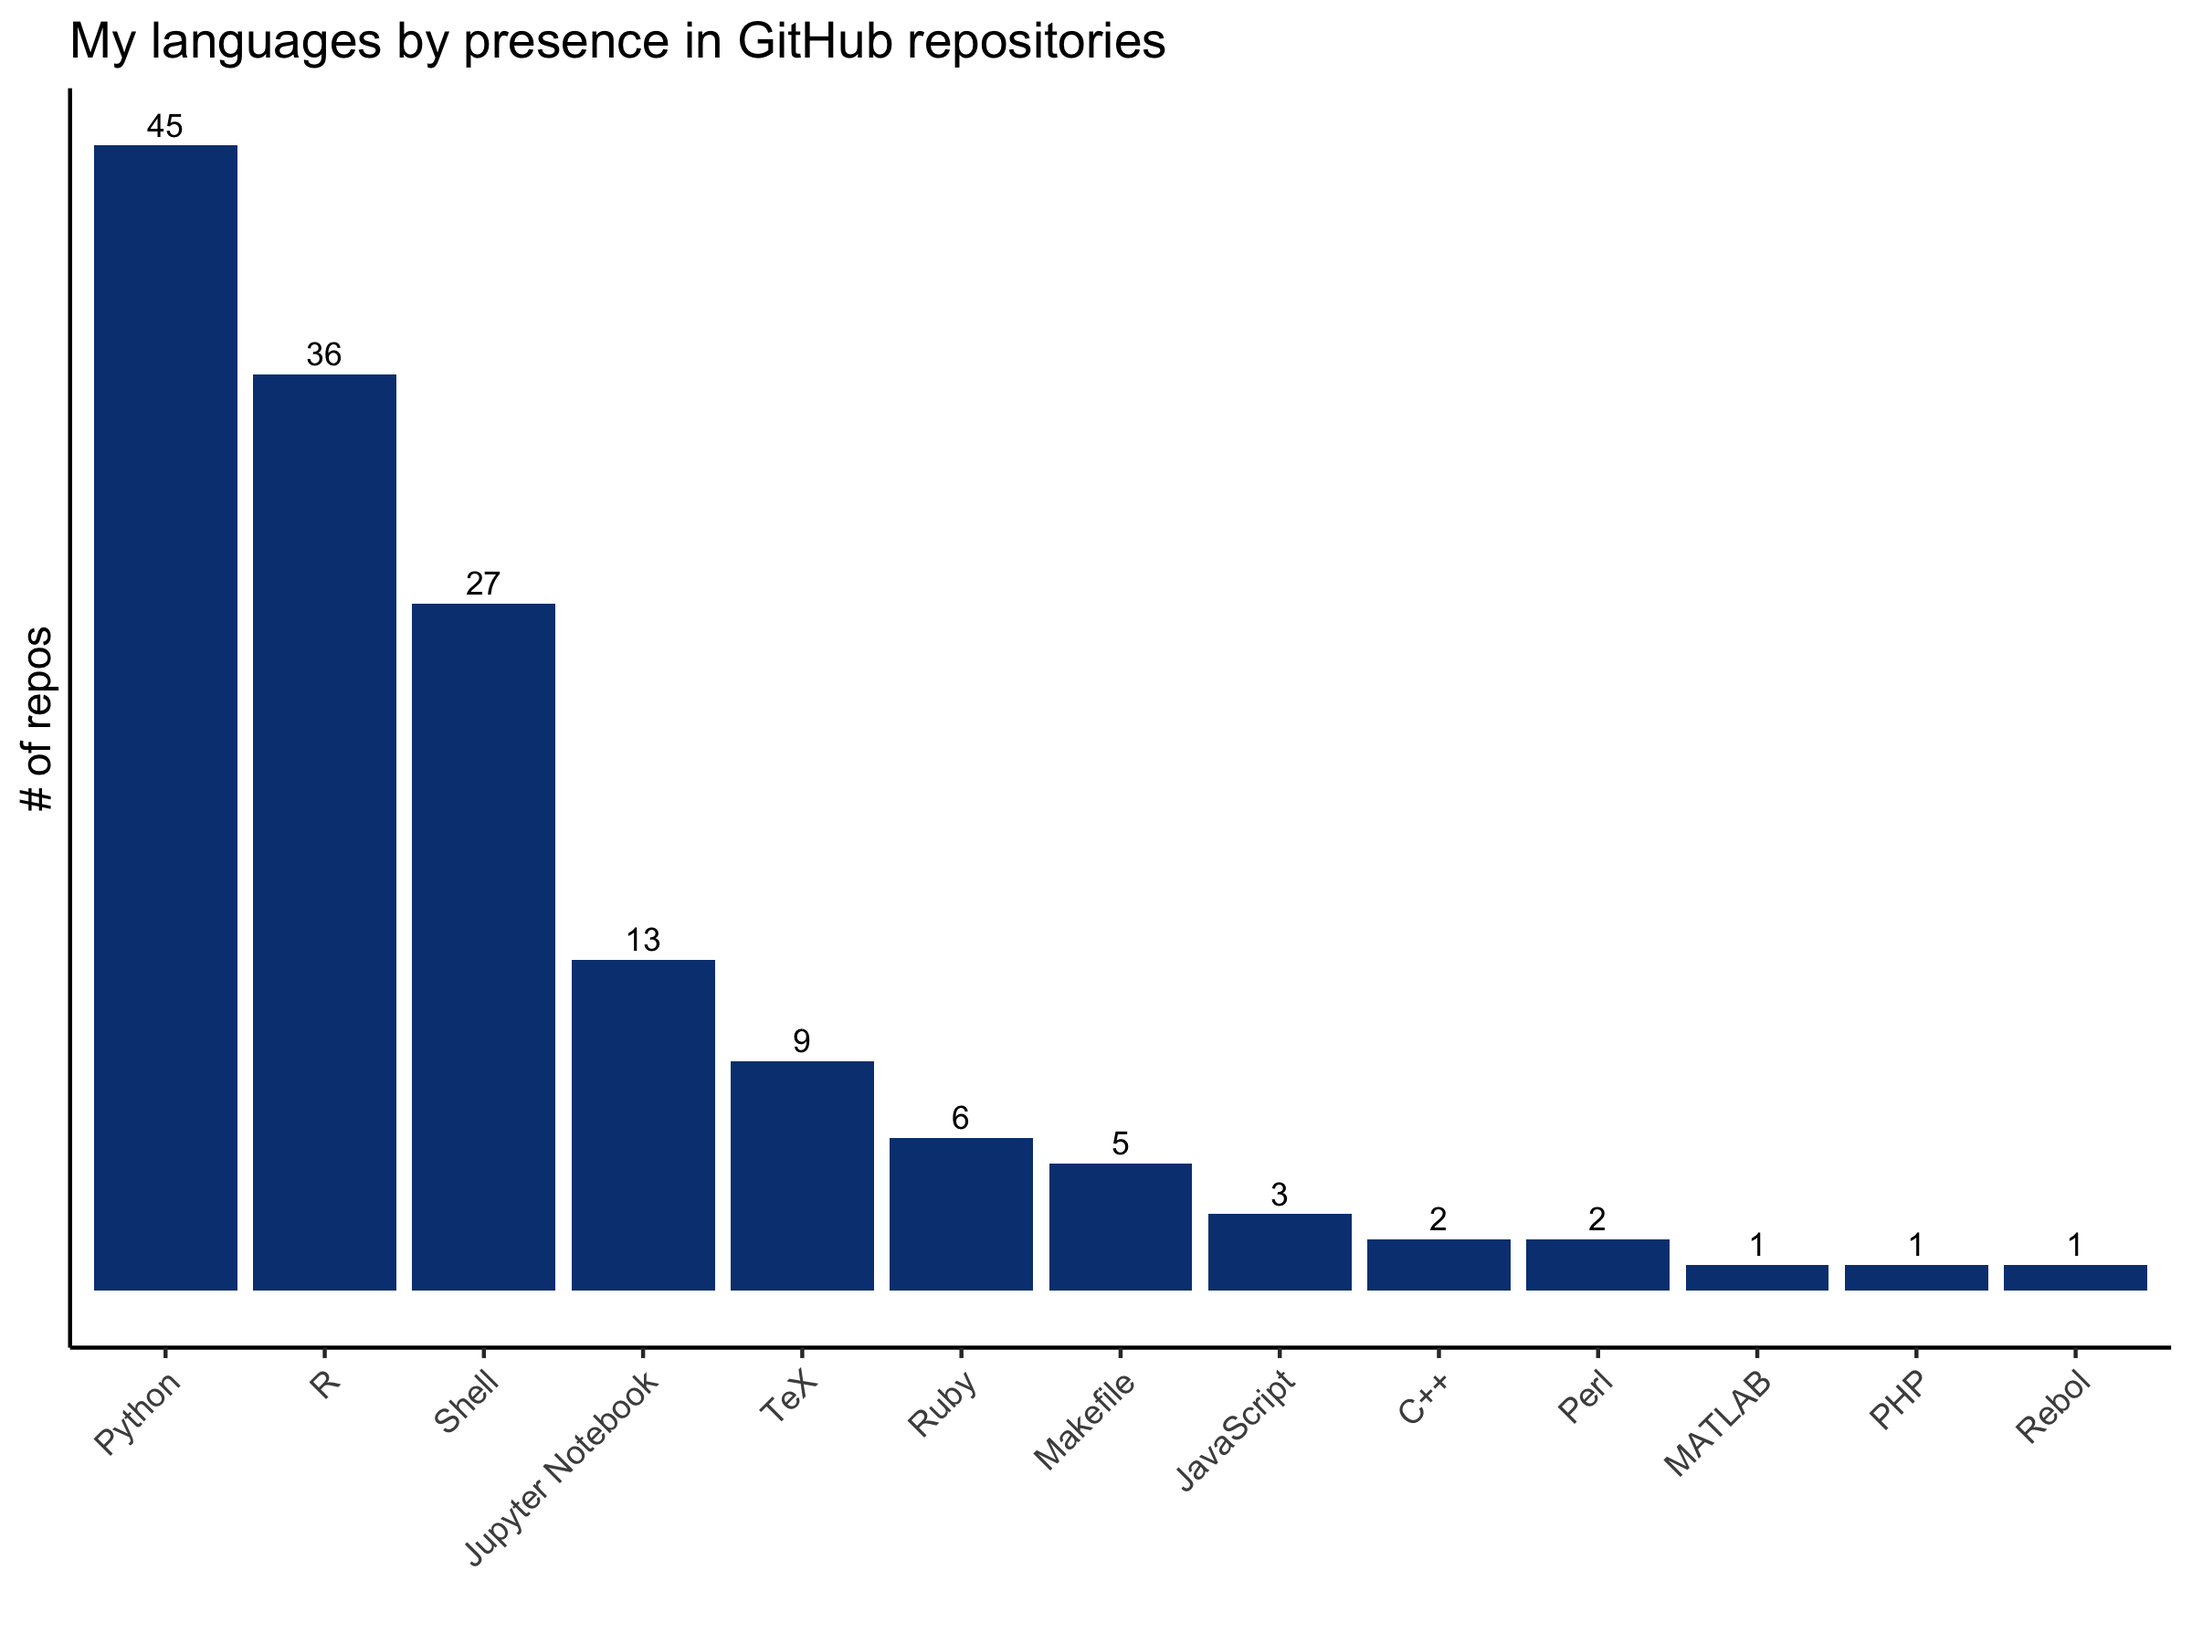
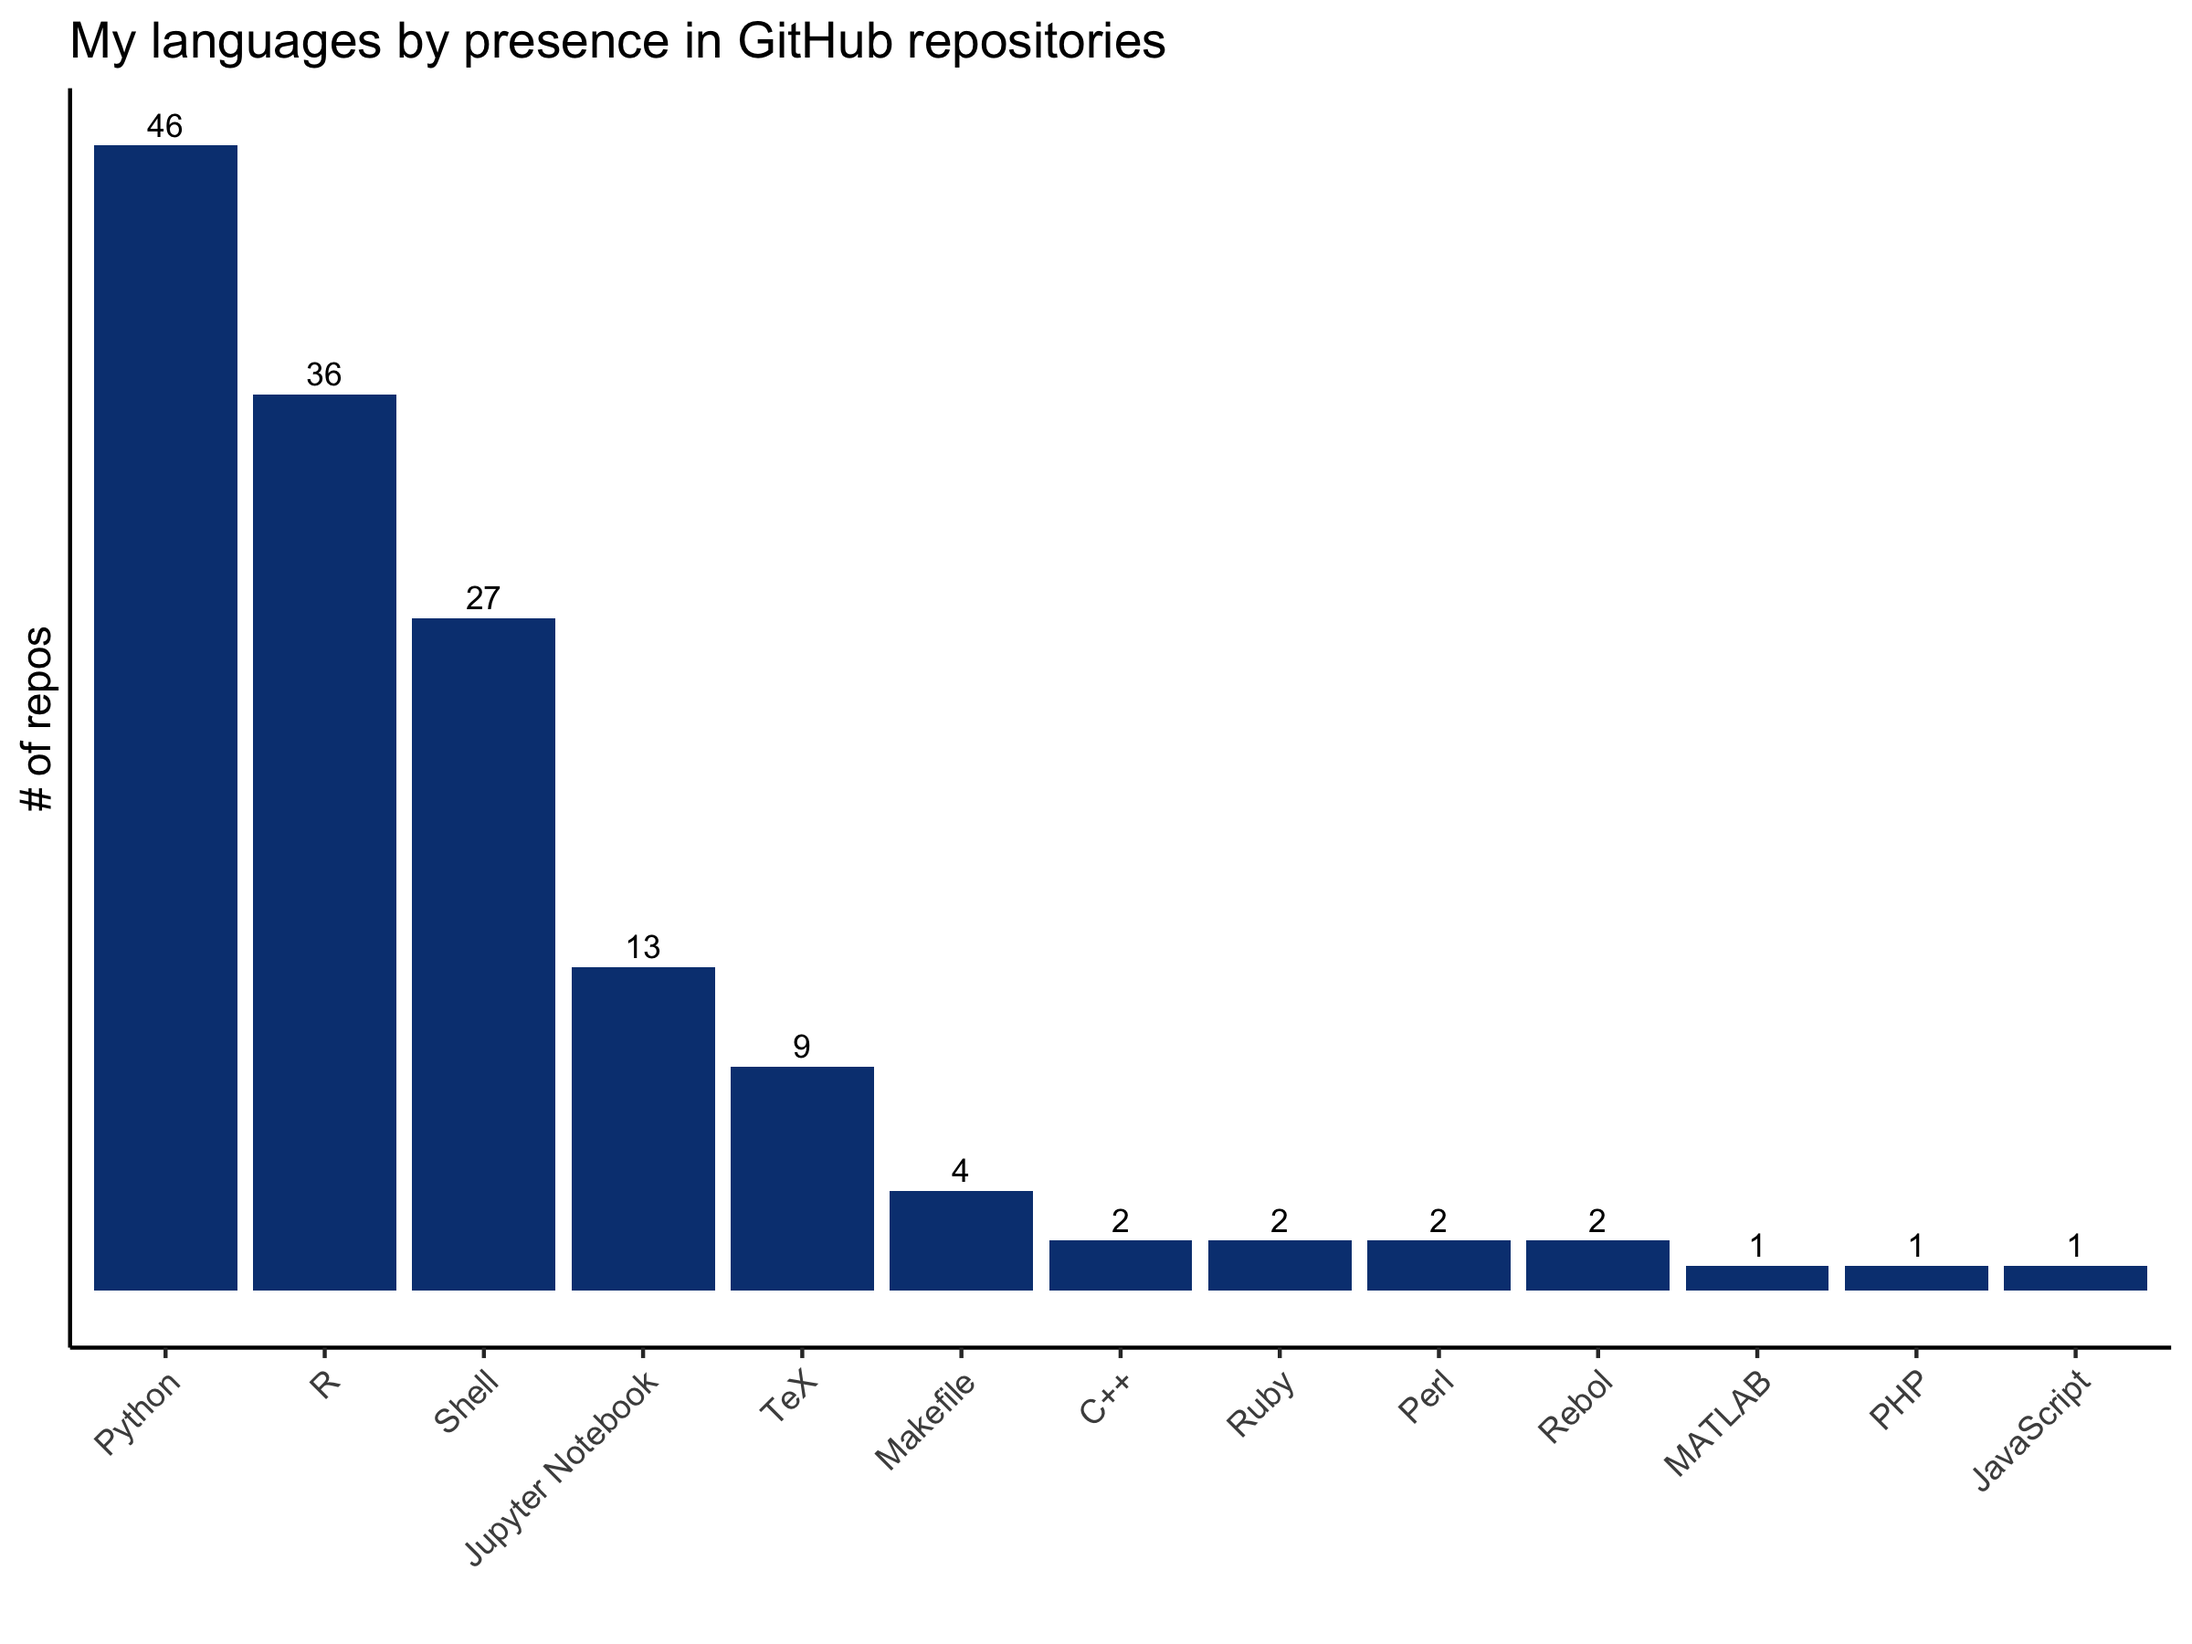
Manually ignore a few more repos

diff --git a/README.md b/README.md
@@ -11,11 +11,13 @@ A meta-repository to organize my public projects.
 ### Current
 | Repository | Description | Owner | Language(s) |
 |---|---|---|---|
-| [strava](https://github.com/kelly-sovacool/strava) | Having fun plotting my activity data from Strava! | [kelly-sovacool](https://github.com/kelly-sovacool) | R, Python, Shell |
-| [mikRopML](https://github.com/SchlossLab/mikRopML) | User-Friendly Machine Learning Package for Classification Problems | [SchlossLab](https://github.com/SchlossLab) | R |
-| [mikRopML-snakemake-workflow](https://github.com/SchlossLab/mikRopML-snakemake-workflow) | Template for running mikRopML with Snakemake | [SchlossLab](https://github.com/SchlossLab) | Python, R, Shell |
-| [handmade-plots](https://github.com/kelly-sovacool/handmade-plots) | Attempting to make plots look like they were drawn by hand | [kelly-sovacool](https://github.com/kelly-sovacool) |  |
 | [kelly-sovacool.github.io](https://github.com/kelly-sovacool/kelly-sovacool.github.io) | My personal website, forked from the academicpages template. | [kelly-sovacool](https://github.com/kelly-sovacool) | Shell |
+| [meta-repo](https://github.com/kelly-sovacool/meta-repo) | A meta-repository to organize my public projects. | [kelly-sovacool](https://github.com/kelly-sovacool) | Python, R, Shell |
+| [strava](https://github.com/kelly-sovacool/strava) | Having fun plotting my activity data from Strava! | [kelly-sovacool](https://github.com/kelly-sovacool) | R, Python, Shell |
+| [mikRopML-snakemake-workflow](https://github.com/SchlossLab/mikRopML-snakemake-workflow) | Template for running mikRopML with Snakemake | [SchlossLab](https://github.com/SchlossLab) | Python, R, Shell |
+| [repro-packs](https://github.com/um-dang/repro-packs) | Structuring projects for reproducibility and headache prevention. | [um-dang](https://github.com/um-dang) |  |
+| [mikRopML](https://github.com/SchlossLab/mikRopML) | User-Friendly Machine Learning Package for Classification Problems | [SchlossLab](https://github.com/SchlossLab) | R |
+| [handmade-plots](https://github.com/kelly-sovacool/handmade-plots) | Attempting to make plots look like they were drawn by hand | [kelly-sovacool](https://github.com/kelly-sovacool) |  |
 | [snakemake_hpc_mwe](https://github.com/kelly-sovacool/snakemake_hpc_mwe) | A minimal working example of using Snakemake on an HPC running PBS-torque or SLURM. | [kelly-sovacool](https://github.com/kelly-sovacool) | Shell, Python |
 | [Great_Lakes_SLURM](https://github.com/SchlossLab/Great_Lakes_SLURM) | Using the Great Lakes cluster and batch computing with SLURM  | [SchlossLab](https://github.com/SchlossLab) |  |
 | [mothuR](https://github.com/SchlossLab/mothuR) | R package to work with mothur output files | [SchlossLab](https://github.com/SchlossLab) | R |
@@ -24,9 +26,7 @@ A meta-repository to organize my public projects.
 | [acnh](https://github.com/kelly-sovacool/acnh) | Animal Crossing: New Horizons | [kelly-sovacool](https://github.com/kelly-sovacool) |  |
 | [schlosslab.github.io](https://github.com/SchlossLab/schlosslab.github.io) | The website for the Schloss Lab at the University of Michigan | [SchlossLab](https://github.com/SchlossLab) | CSS, HTML, Ruby |
 | [machine-learning-pipelines-r](https://github.com/um-dang/machine-learning-pipelines-r) | Machine Learning Pipelines in R: Predict colorectal cancer using microbiome data | [um-dang](https://github.com/um-dang) | R |
-| [repro-packs](https://github.com/um-dang/repro-packs) | Structuring projects for reproducibility and headache prevention. | [um-dang](https://github.com/um-dang) |  |
 | [latex-cv](https://github.com/kelly-sovacool/latex-cv) | My curriculum vitae in LaTeX + a Snakemake pipeline for compiling tex to pdf. | [kelly-sovacool](https://github.com/kelly-sovacool) | TeX, Python |
-| [meta-repo](https://github.com/kelly-sovacool/meta-repo) | A meta-repository to organize my public projects. | [kelly-sovacool](https://github.com/kelly-sovacool) | Python, R, Shell |
 | [um-dang.github.io](https://github.com/um-dang/um-dang.github.io) | Website for the Data Analysis Networking Group at U-M. | [um-dang](https://github.com/um-dang) |  |
 | [functional.redundancy](https://github.com/kelly-sovacool/functional.redundancy) |  | [kelly-sovacool](https://github.com/kelly-sovacool) | R |
 | [GWC-DCMB](https://github.com/GWC-DCMB/GWC-DCMB) | A meta-repository to help navigate the repos and resources of Girls Who Code at UM-DCMB. | [GWC-DCMB](https://github.com/GWC-DCMB) | Python, Shell |
@@ -187,6 +187,6 @@ python code/GitHubLangStats.py --username your_username --include_private
 
 ![language_all_bytes](figures/language_all_bytes.png)
 
-![langauge_all_bytes_n6](figures/language_all_bytes_n6.png)
+![langauge_all_bytes_n5](figures/language_all_bytes_n5.png)
 
 ![language_all_repos](figures/language_all_repos.png)
